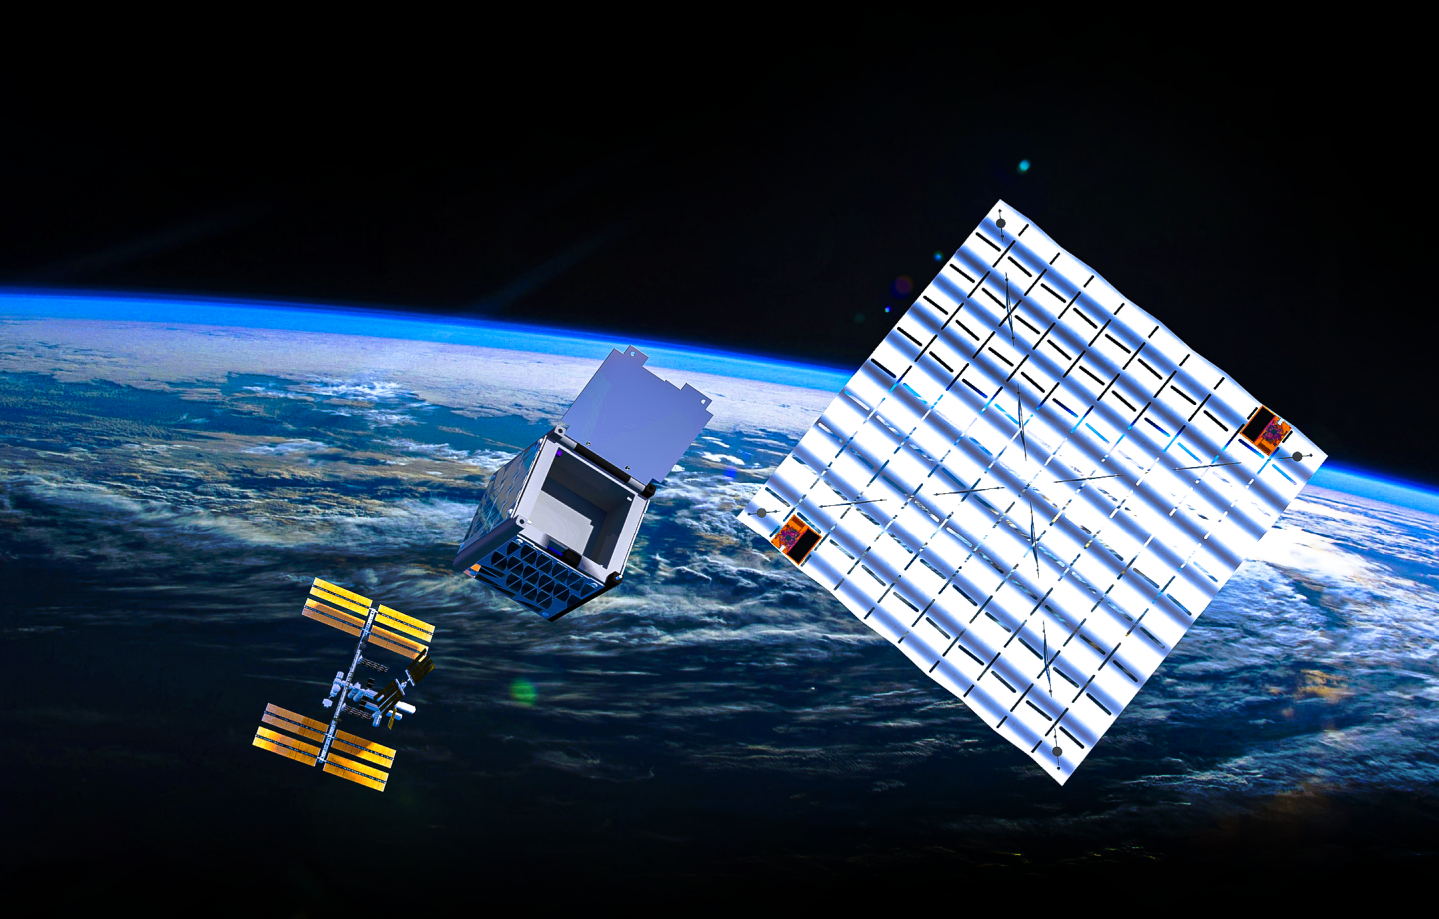
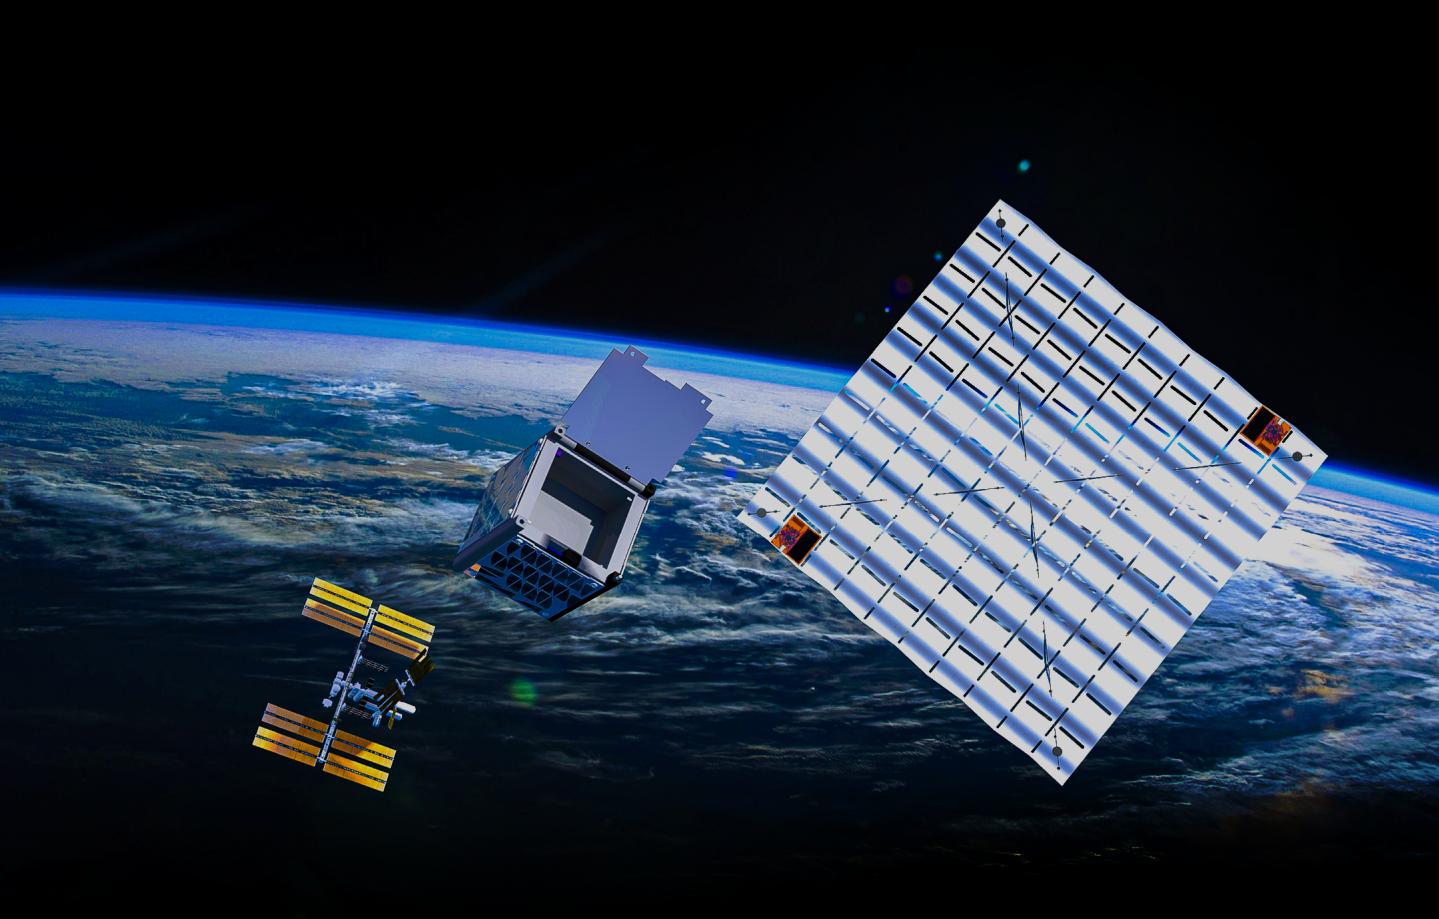
removed the weird overlay, but might not be abl to use this image because it is bad contrast, or use a different image later

Changed region(s): [[0.0, 0.2133, 1.0, 0.8531]]

diff --git a/docs/styles/about.css b/docs/styles/about.css
@@ -155,11 +155,7 @@ body::before {
 }
 
 .hero-overlay {
-  background: rgba(0, 0, 0, 0.45);
-  padding: 2rem;
-  border-radius: 10px;
-  position: relative;
-  z-index: 1;
+  background: transparent,
 }
 
 .hero h1 {
